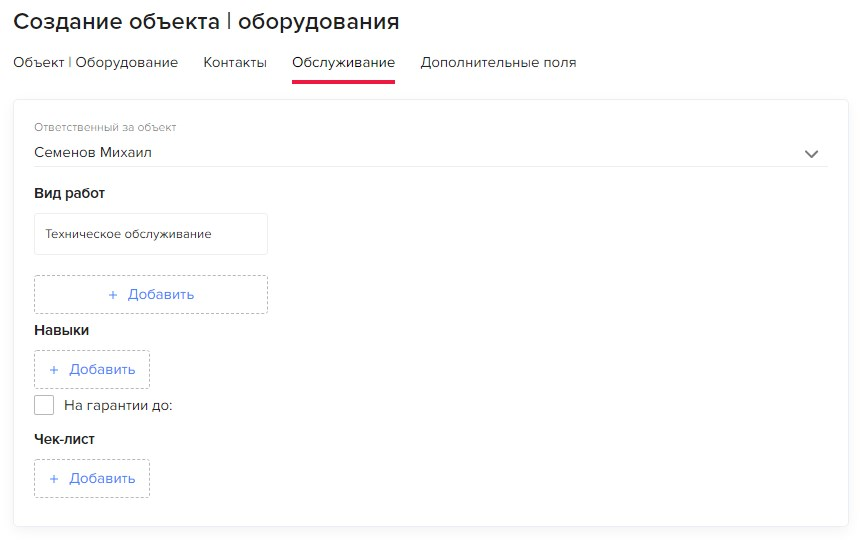
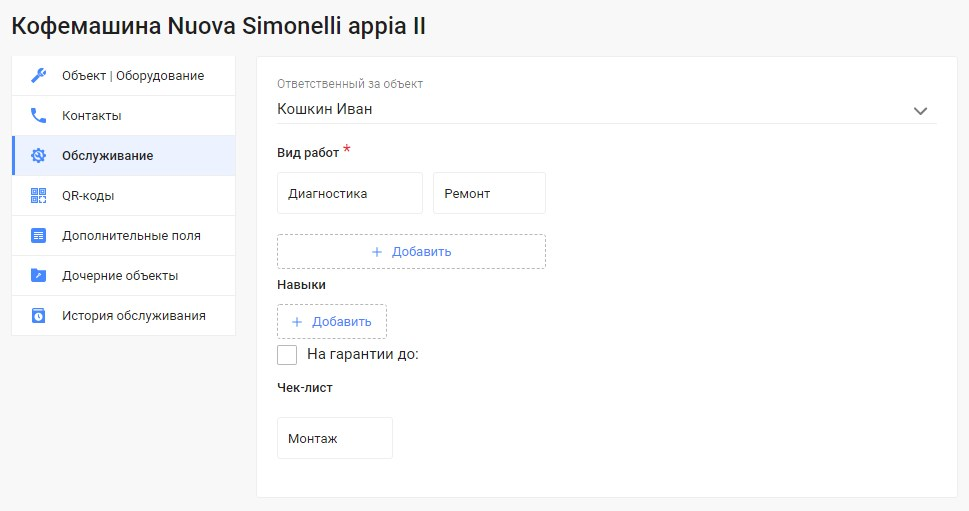
Creating Object edit

diff --git a/docs/FAQ/RU/user/CreatingObjects.md b/docs/FAQ/RU/user/CreatingObjects.md
@@ -40,132 +40,183 @@ description: Как добавить обслуживаемые компание
 </html>
 
 <p>Под <strong>Объектом</strong> в системе HubEx понимается здание, помещение, оборудование, прибор и т.д., который
-    требует ремонта, обслуживания и т.д. <strong>Объекты</strong> используются в <strong>Заявках</strong>.</p>
+    требует ремонта, обслуживания и т.д. Объекты в системе привязываются к компаниии-заказчику. Указывая в
+    заявках объект/оборудование, можно в дальнейшем получать детальную
+    аналитику обращений клиентов, заказов, выполненных работ по каждой единице оборудования заказчика. Также можно
+    назначать заявки по разным объектам/оборудованию на разных исполнителей.</p>
+
+<p>Если детальный учет по различным объектам или оборудованию заказчика не требуется, можно завести один обслуживаемый
+    объект для каждого заказчика и он автоматически будет подставляться в <strong>Заявку</strong> при выборе заказчика.
+</p>
 
 <p>Для добавления обслуживаемого оборудования необходимо перейти на вкладку <strong>Объекты|Оборудование</strong>
-    бокового меню и нажать кнопку <strong>Создать объект</strong>. Форма <strong>Объекта</strong> состоит из нескольких
-    вкладок: <strong>Объект|Оборудование</strong>, <strong>Контакты</strong>, <strong>Обслуживание</strong>, <strong>Доп.поля</strong>.
+    бокового меню и нажать кнопку <strong>Создать объект</strong>. При создании форма <strong>Объекта</strong> состоит
+    из следующих
+    вкладок: Объект|Оборудование, Контакты, Обслуживание, Дополнительные поля. После сохранения карточки
+    <strong>Объекта</strong> на
+    форме появятся дополнительные вкладки: QR-коды, Дочерние объекты и История обслуживания.
 </p>
-<div>
-  <img  style="margin: 0 auto; display: block; max-width: 100%;" src="/attachments/images/FAQ/USER/CreatingObjects/obj1.png" />
+
+<div style="display: flex;">
+    <img style="margin: 0 auto; display: block; max-width: 40%;"
+         src="/attachments/images/FAQ/USER/creatingObjects/ObjectEmpty.jpg"/> <img
+        style="margin: 0 auto; display: block; max-width: 40%;"
+        src="/attachments/images/FAQ/USER/AttachingFiles/ObjectMain.jpg"/>
 </div>
 
 
-Рассмотрим определение <strong>Типа объекта</strong> и заполнение остальных полей.
+Далее рассмотрим определение <strong>Типа объекта</strong>, создание дочерних объектов и заполнение полей на форме.
 
 <h5 id="poch">Отличие родительских объектов от дочерних</h5>
 
-<p>Выбор <strong>Типа объекта</strong> позволяет создать иерархию обслуживаемого оборудования, помещений и т.д. Для типа
-    <strong>Объект</strong> обязательным условием является наличие адреса. Обязательным условием создания карточки с типом <strong>Оборудование</strong>
-    является выбор родительского <strong>Объекта</strong>.</p>
+<p><strong>Типы объекта</strong> позволяют создать иерархический список обслуживаемых объектов. </p>
+<p>Иерархический список представляет собой расположение элементов от родительских к дочерним. В системе HubEx
+    родительским является объект с типом <strong>Объект</strong>, а дочерним - с типом <strong>Оборудование</strong>.
+</p>
+<p>Для родительского объекта с типом
+    <strong>Объект</strong> обязательным условием является наличие адреса. Дочерние объект может иметь свой адрес, или
+    наследовать его от родительского.</p>
 
-<p>Разницу между дочерними и родительскими объектами легко понять на примере: в бизнес-центре Авеню (тип Объект), который является
+
+<p>Разницу между дочерними и родительскими объектами легко понять на примере: в бизнес-центре Авеню (тип Объект),
+    который является
     родительским объектом, есть офис 514 (тип Объект). Офис будет дочерним объектом по отношению к
-    бизнес-центру. В офисе 514 есть кофемашина (тип Оборудование), которая будет дочерним объектом по отношению и к офису и к самому
-    бизнес-центру.</p>
+    бизнес-центру. В офисе 514 есть кофемашина (тип Оборудование), которая будет дочерним объектом по отношению и к
+    офису и к самому бизнес-центру.</p>
 
-<p>Добавить новые <strong>Типы объектов</strong> для вашего бизнеса может администратор системы. Подробно об этом написано в статье <a
-        href="https://wiki.hubex.ru/docs/FAQ/RU/admin/ObjectsType.html"> Типы объектов</a>.</p>
+<p>Добавить новые <strong>Типы объекта</strong> можно в консоли администратора. Подробнее об этом
+    читайте в статье <a
+            href="https://wiki.hubex.ru/docs/FAQ/RU/admin/ObjectsType.html">Типы объектов</a>.</p>
 
 <p>Таким образом будет выглядеть родительский объект.</p>
- <div>
-   <img style="margin: 0 auto; display: block; max-width: 100%;" src="/attachments/images/FAQ/USER/CreatingObjects/obj10.png" />
- </div>
+<div>
+    <img style="margin: 0 auto; display: block; max-width: 80%;"
+         src="/attachments/images/FAQ/USER/CreatingObjects/ParentObject.jpg"/>
+</div>
 
-<p>Созать дочерний объект в системе можно тремя способами:</p>
+<p>Созать дочерний объект в системе можно несколькими способами:</p>
 <ol>
-    <li><p>По кнопке <strong>Создать объект</strong> на вкладке <strong>Объекты|Оборудование</strong> с указанием родительского элемента.</p></li>
-
-    <div>
-        <img style="margin: 0 auto; display: block; max-width: 60%;"
-             src="/attachments/images/FAQ/USER/CreatingObjects/obj12.png"/>
-    </div>
-
-    <li><p>Из профиля родительского объекта по кнопке <strong>Контекстного меню</strong> (3 точки) - <strong>Создать дочерний объект|оборудование</strong>.</p>
+    <li>
+        После сохранения карточки родительсого объекта на вкладке <strong>Дочерние объекты</strong> по кнопке + можно
+        создать новый дочерний объект.</p>
     </li>
-
     <div>
-        <img style="margin: 0 auto; display: block; max-width: 100%;"
-             src="/attachments/images/FAQ/USER/CreatingObjects/obj13.jpg"/>
+        <img style="margin: 0 auto; display: block; max-width: 70%;"
+             src="/attachments/images/FAQ/USER/CreatingObjects/ChildObject3.jpg"/>
     </div>
 
-    <li><p>Из перечня всех <strong>Объектов</strong>, нажав на кнопку <strong>Контекстного меню</strong> (3 точки) - <strong>Создать дочерний объект|оборудование</strong> на
-        конкретном объекте.</p>
+    <li><p>Из карточки родительского объекта по кнопке <strong>Контекстного меню</strong> (3 точки) в правом верхнем
+        углу - <strong>Создать
+            дочерний объект|оборудование</strong>.</p>
     </li>
 
     <div>
         <img style="margin: 0 auto; display: block; max-width: 70%;"
-             src="/attachments/images/FAQ/USER/CreatingObjects/obj14.jpg"/>
+             src="/attachments/images/FAQ/USER/CreatingObjects/ChildObject2.jpg"/>
+    </div>
+
+    <li><p>В главном меню <strong>Объекты|Оборудование</strong> по кнопке <strong>Создать объект</strong> с указанием
+        родительского элемента.</p></li>
+
+    <div>
+        <img style="margin: 0 auto; display: block; max-width: 70%;"
+             src="/attachments/images/FAQ/USER/CreatingObjects/ChildObject.jpg"/>
+    </div>
+
+    <li><p>Выбрав конкретный объект из списка всех объектов в главном меню <strong>Объекты|Оборудование</strong> и нажав
+        на кнопку <strong>Контекстного меню</strong> (3 точки) -
+        <strong>Создать дочерний объект|оборудование</strong>.</p>
+    </li>
+
+    <div>
+        <img style="margin: 0 auto; display: block; max-width: 70%;"
+             src="/attachments/images/FAQ/USER/CreatingObjects/ObjectList.jpg"/>
     </div>
 
 </ol>
 
 <h5 id="tga">Разрешение на подачу заявок</h5>
-<p>Включение функции <strong>Разрешить подавать заявки по этому объекту</strong> позволит вам подавать
-    <strong>Заявки</strong> по этому оборудованию. Если
+<p>При создании нового объекта на форме отображается флажок <strong>Разрешить подавать заявки по этому объекту</strong>.
+    Включение этой функции позволяет подавать
+    <strong>Заявки</strong> по объеут/оборудованию. Если
     вы хотите добавить в систему объект, который в данный момент не обслуживаете или который нуждается в дальнейшем
     редактировании, то влючить эту функцию можно
     позже. Это позволит оптимизировать список объектов и
     рассматривать как те объекты, которые уже обслуживаются, так и те по которым вы еще не проводите работы.</p>
+<p>Если флажок был установлен и объект был записан, то снять флажок нельзя - он исчезает с формы записанного
+    объекта.</p>
 
- <div>
-   <img style="margin: 0 auto; display: block; max-width: 70%;" src="/attachments/images/FAQ/USER/CreatingObjects/obj11.png" />
- </div>
+<div>
+    <img style="margin: 0 auto; display: block; max-width: 70%;"
+         src="/attachments/images/FAQ/USER/CreatingObjects/AllowsCreateTicket.jpg"/>
+</div>
 
-<h5 id="fillelse">Заполнение остальных полей</h5>
+<h5 id="fillelse">Заполнение остальных полей в карточке объекта</h5>
 
 <p>На вкладке <strong>Объекты|Оборудование</strong> заполняются также следующие поля:</p>
 <ul>
     <li><strong>Компания-владелец</strong>;</li>
     <li><strong>Адрес</strong>;</li>
     <li><strong>Участок</strong>;</li>
-    <li><strong>Прикрепление файлов</strong>.</li>
+    <li><strong>Файлы</strong>.</li>
 </ul>
 <p>В поле <strong>Компания-владелец</strong> выберите, какой компании принадлежит обслуживаемое оборудование. Выбор
     осуществляется из списка созданных вами компаний.</p>
 
- <div>
-   <img style="margin: 0 auto; display: block; max-width: 70%;" src="/attachments/images/FAQ/USER/CreatingObjects/obj2.png" />
- </div>
+<div>
+    <img style="margin: 0 auto; display: block; max-width: 70%;"
+         src="/attachments/images/FAQ/USER/CreatingObjects/Owner.jpg"/>
+</div>
 
-<p>В поле <strong>Участок</strong> выберите, к какому участку принадлежит оборудование. С помощью <strong>Участков</strong> происходит разделение объектов
-    и оборудования на зоны. <strong>Участки</strong> обеспечивают видимость <strong>Объектов</strong> для одних инженеров,
-    но не позволяют видеть <strong>Заявки</strong> и <strong>Объекты</strong> другим. Например, Северо-Запад Санкт-Петербурга, Краснодарский
-    край и др. <strong>Объект</strong> может принадлежать к нескольким участкам одновременно.</p>
-
-
- <div>
-   <img style="margin: 0 auto; display: block; max-width: 50%;" src="/attachments/images/FAQ/USER/CreatingObjects/obj3.JPG" />
- </div>
-
-
-<p><strong>Адрес</strong> объекта добавляется по кнопке <strong>Добавить адрес</strong>. <strong>Адрес</strong> обязателен для родительских объектов.</p>
-
- <div>
-   <img style="margin: 0 auto; display: block; max-width: 70%;" src="/attachments/images/FAQ/USER/CreatingObjects/obj6.png" />
- </div>
+<p>В поле <strong>Участок</strong> выберите, к какому участку принадлежит оборудование. С помощью
+    <strong>Участков</strong> происходит разделение объектов/оборудования на зоны. <strong>Участки</strong> обеспечивают
+    видимость <strong>Объектов</strong> для одних
+    инженеров,
+    но не позволяют видеть <strong>Заявки</strong> и <strong>Объекты</strong> другим. Например, Северо-Запад
+    Санкт-Петербурга, Краснодарский
+    край и др. <strong>Объект</strong> может принадлежать к нескольким участкам одновременно. Также участки заполняются
+    у пользователей, со стороны заказчиков</p>
 
 
-<p>При создании нового <strong>Объекта</strong> вы можете приложить файлы, которые способны помочь сервисным инженерам в работе с
+<div>
+    <img style="margin: 0 auto; display: block; max-width: 50%;"
+         src="/attachments/images/FAQ/USER/CreatingObjects/obj3.JPG"/>
+</div>
+
+
+<p><strong>Адрес</strong> объекта добавляется по кнопке <strong>Добавить адрес</strong>. <strong>Адрес</strong>
+    обязательно указывать для родительских объектов. Дочерний объект может иметь свой собственный адрес или наследовать
+    его от родителя.</p>
+
+<div>
+    <img style="margin: 0 auto; display: block; max-width: 70%;"
+         src="/attachments/images/FAQ/USER/CreatingObjects/obj6.png"/>
+</div>
+
+
+<p>При создании нового <strong>Объекта</strong> вы можете приложить файлы, которые способны помочь сервисным инженерам в
+    работе с
     оборудованием. Это могут быть фотографии, инструкции в текстовых файлах.</p>
 
- <div>
-   <img style="margin: 0 auto; display: block; max-width: 70%;" src="/attachments/images/FAQ/USER/CreatingObjects/obj7.png" />
- </div>
+<div>
+    <img style="margin: 0 auto; display: block; max-width: 70%;"
+         src="/attachments/images/FAQ/USER/CreatingObjects/obj7.png"/>
+</div>
 
 
-<p>На вкладке <strong>Контакты</strong> при создании нового <strong>Объекта</strong> можно указать контактную информацию ответственного по объекту,
-    например сервисного инженера.</p>
+<p>На вкладке <strong>Контакты</strong> можно указать контактную информацию
+    ответственного по объекту со стороны заказчика.</p>
 
- <div>
-   <img style="margin: 0 auto; display: block; max-width: 70%;" src="/attachments/images/FAQ/USER/CreatingObjects/obj4.png" />
- </div>
+<div>
+    <img style="margin: 0 auto; display: block; max-width: 70%;"
+         src="/attachments/images/FAQ/USER/CreatingObjects/obj4.png"/>
+</div>
 
-<p>Также можно ввести дополнительные контакты, например, охранника или вахтёра.</p>
+<p>Также можно ввести дополнительные контакты, например, директора, диспетчера.</p>
 
- <!--<div>
-   <img style="margin: 0 auto; display: block; max-width: 70%;" src="/attachments/images/FAQ/USER/CreatingObjects/obj9.png" />
- </div>-->
+<!--<div>
+  <img style="margin: 0 auto; display: block; max-width: 70%;" src="/attachments/images/FAQ/USER/CreatingObjects/obj9.png" />
+</div>-->
 
 <p>На вкладке <strong>Обслуживание</strong> запоняются следующие поля:</p>
 <ul>
@@ -176,49 +227,75 @@ description: Как добавить обслуживаемые компание
     <li><strong>Чек-лист</strong>.</li>
 </ul>
 
-<p>В поле <strong>Ответственный за объект</strong> можно указать сервисного инженера, который постоянно обслуживает
-    обект. Эту информацию в дальнейшем можно использовать при настройке автораспределения сотрудников на Заявки. Подробнее об этом
-    читайте <a href="https://wiki.hubex.ru/docs/FAQ/RU/users/CreatingTicket.html"> здесь</a></p>
+<p>В поле <strong>Ответственный за объект</strong> можно указать сервисного инженера, который постоянно обслуживает этот
+    обект. Эту информацию в дальнейшем можно использовать при настройке автораспределения сотрудников на Заявки.
+    Подробнее об этом
+    читайте <a href="https://wiki.hubex.ru/docs/FAQ/RU/users/CreatingTicket.html"> здесь</a>.</p>
 
 <p>В поле <strong>Вид работ</strong> необходимо выбрать те виды деятельности, которые можно осуществлять над <strong>Объектом</strong>.
-    Эти <strong>Виды работ</strong> затем будут использоваться при создании <strong>Заявок</strong>.</p>
+    Например, видом работ может являться Монтаж оборудования, Техническое обслуживание, либо более детальные варианты -
+    Ремонт холодильной техники.
+    Один из заданных <strong>Видов работ</strong> затем будет выбираться при создании <strong>Заявки</strong>. Также
+    <strong>Виды работ</strong> настраиваются в карточке сотрудников-исполнителей (меню Пользователи - Сотрудники). То
+    есть при выборе в Заявке объекта и
+    вида работ по нему специалиста можно будет выбрать только по совпадению с видом работ в его карточке.</p>
 
 <p><strong>Навыки</strong>: здесь можно указать дополнительную квалификацию, которой должен обладать Сотрудник, чтобы
-    взаимодействовать с Объектом. Навыки используются в настройке автораспределения исполнителей на Заявки.</p>
+    взаимодействовать с Объектом. Навыки также могут быть использованы в настройке автораспределения исполнителей на
+    Заявки.</p>
 
 <p>Если вы даете гарантию на свои услуги, то ее срок можно отразить с помощью реквизита <strong>На гарантии до</strong>.
 </p>
 
-<p>К <strong>Объекту</strong> можно привязать один <strong>Чек-лист</strong>. <strong>Чек-лист</strong> - это контрольный список дел или задач, которые необходимо
+<p>К <strong>Объекту</strong> можно привязать один <strong>Чек-лист</strong>. <strong>Чек-лист</strong> - это
+    контрольный список дел или задач, которые необходимо
     выполнить или проверить по <strong>Объекту</strong>. Подробнее о создании <strong>Чек-листов</strong> читайте <a
             href="https://wiki.hubex.ru/docs/FAQ/RU/users/Checklists.html"> здесь</a>.</p>
 
 
- <div>
-   <img style="margin: 0 auto; display: block; max-width: 70%;" src="/attachments/images/FAQ/USER/CreatingObjects/ObjectService.jpg" />
- </div>
+<div>
+    <img style="margin: 0 auto; display: block; max-width: 70%;"
+         src="/attachments/images/FAQ/USER/CreatingObjects/ObjectService.jpg"/>
+</div>
 
 
 <p>Вкладка <strong>QR-коды</strong> позволит вам промаркировать <strong>Объект</strong> - создать и привязать <strong>Паспорт
     объекта</strong>. С помощью него вы можете просмотреть основную информацию об
-    объекте, отсканировав <strong>QR-код</strong>. Подробнее про создание <strong>Паспорта объекта</strong> и <strong>QR-кода</strong> можно прочитать <a
+    объекте, отсканировав <strong>QR-код</strong>. Подробнее про создание <strong>Паспорта объекта</strong> и <strong>QR-кода</strong>
+    можно прочитать <a
             href="https://wiki.hubex.ru/docs/FAQ/RU/user/CreatingTickTemplates.html">здесь</a>.</p>
 
 <div>
-    <img style="margin: 0 auto; display: block; max-width: 80%;"
+    <img style="margin: 0 auto; display: block; max-width: 50%;"
          src="/attachments/images/FAQ/USER/CreatingObjects/obj8.png"/>
 </div>
 
-<p>На вкладке <strong>Доп.поля</strong> вы можете выбрать дополнительные реквизиты для заполнения, например, указать площадь <strong>Объекта</strong>, если это необходимо. Добавить в список другие поля может администратор вашей системы. Подробнее об этом пожно прочитать <a href="https://wiki.hubex.ru/docs/FAQ/RU/admin/TicketAttribute.html">здась</a>.</p>
+<p>На вкладку <strong>Дополнительные поля</strong> вы можете добавить дополнительные поля для заполнения. Создать
+    дополнительные поля можно в консоли администратора. Например, можно указать
+    площадь объекта, если это необходимо. Подробнее об этом читайте <a
+            href="https://wiki.hubex.ru/docs/FAQ/RU/admin/TicketAttribute.html">здась</a>.
+</p>
 
- <div>
-   <img style="margin: 0 auto; display: block; max-width: 70%;" src="/attachments/images/FAQ/USER/CreatingObjects/AdditionalField.jpg" />
- </div>
+<div>
+    <img style="margin: 0 auto; display: block; max-width: 70%;"
+         src="/attachments/images/FAQ/USER/CreatingObjects/AdditionalField.jpg"/>
+</div>
 
-<p> Вы можете ускорить процесс добавления <strong>Объектов</strong> в систему HubEx с помощью функциии <a href="https://wiki.hubex.ru/docs/FAQ/RU/user/Import.html#objects"> Импорта</a>.</p>
-<p> Для выгрузки информации по <strong>Объектам</strong> из системы HubEx можно воспользоваться функцией <a href="https://wiki.hubex.ru/docs/FAQ/RU/user/Export.html#objects"> Экспорта</a>.</p>
+<p>На вкладке <strong>Дочерние объекты</strong> отображаются все дочерние объекты, а также есть возможность создать
+    новый дочерний объект по кнопке +.
+</p>
+<p>Во вкладке <strong>История обслуживания</strong> отражаются все созданные по объекту заявки. При установке флажка С
+    вложенными объектами в списке заявок будут отражаться заявки по дочерним объектам
+</p>
+<div>
+    <img style="margin: 0 auto; display: block; max-width: 70%;"
+         src="/attachments/images/FAQ/USER/CreatingObjects/History.jpg"/>
+</div>
 
-
+<p> Вы можете ускорить процесс добавления <strong>Объектов</strong> в систему HubEx с помощью функциии <a
+        href="https://wiki.hubex.ru/docs/FAQ/RU/user/Import.html#objects"> Импорта</a>.</p>
+<p> Для выгрузки информации по <strong>Объектам</strong> из системы HubEx можно воспользоваться функцией <a
+        href="https://wiki.hubex.ru/docs/FAQ/RU/user/Export.html#objects"> Экспорта</a>.</p>
 
 
 ### Следующие шаги:
